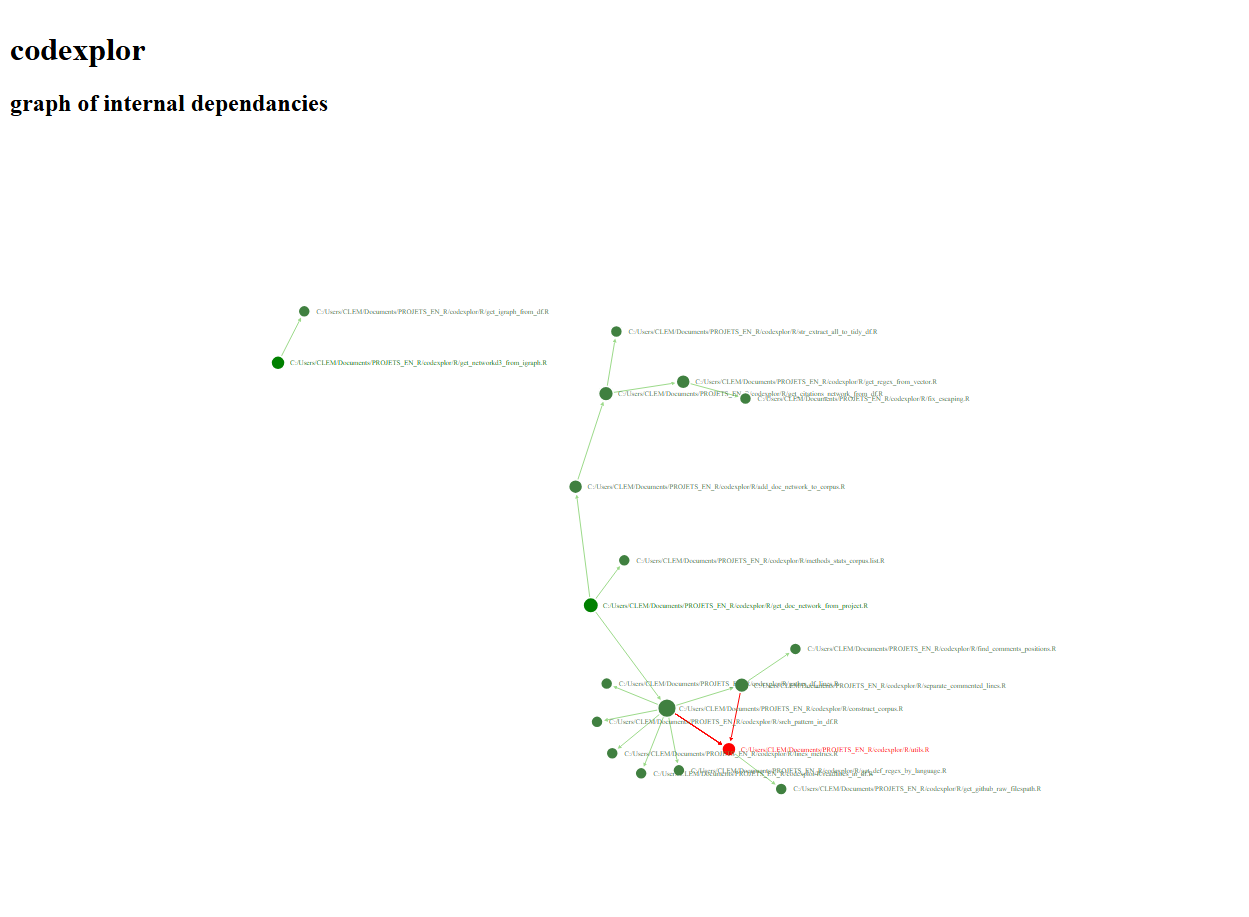
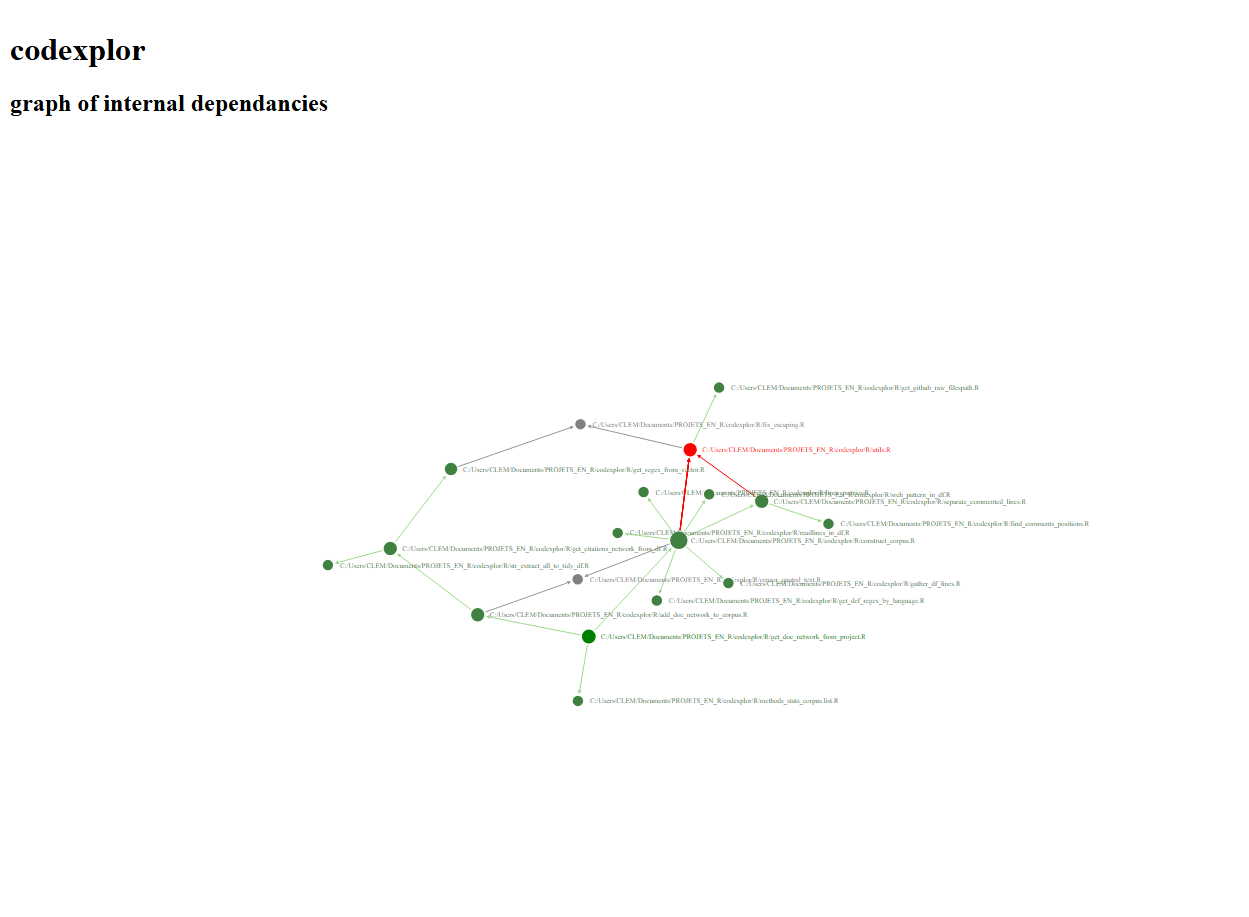
implement proper quoted text mecanizm & cleaning path method

Changed region(s): [[0.2498, 0.3969, 0.8743, 0.8855], [0.2186, 0.3359, 0.4371, 0.3969], [0.4996, 0.3359, 0.6869, 0.3664]]

diff --git a/man/figures/network_codexplor_fn.html b/man/figures/network_codexplor_fn.html
@@ -1231,11 +1231,11 @@ return function(){for(var n=0,e=0;e<t;++e)n+=Math.random();return n}},um=functio
 <div id="htmlwidget_container">
   <h1>codexplor</h1>
   <h2>graph of internal dependancies</h2>
-  <div class="forceNetwork html-widget html-fill-item" id="htmlwidget-4d145afddae71abe1782" style="width:960px;height:500px;"></div>
+  <div class="forceNetwork html-widget html-fill-item" id="htmlwidget-ac90f4d7289b88ae1a1c" style="width:960px;height:500px;"></div>
   <div style="position:floating; top:10px; left:10px; background:white; padding:10px; border:0px;">
   <strong>Colors (indegree)</strong><br></div>
 </div>
-<script type="application/json" data-for="htmlwidget-4d145afddae71abe1782">{"x":{"links":{"source":[0,0,2,3,1,4,1,5,6,7,1,0,1,1,1,7,1,1,2,1,1,1],"target":[4,1,10,11,12,7,13,14,15,3,9,8,16,2,17,18,5,5,5,5,5,5],"colour":["#9CDA8A","#9CDA8A","#9CDA8A","#9CDA8A","#9CDA8A","#9CDA8A","#9CDA8A","#9CDA8A","#9CDA8A","#9CDA8A","#9CDA8A","#9CDA8A","#9CDA8A","#9CDA8A","#9CDA8A","#9CDA8A","#FF0000","#FF0000","#FF0000","#FF0000","#FF0000","#FF0000"]},"nodes":{"name":["C:/Users/CLEM/Documents/PROJETS_EN_R/codexplor/R/get_doc_network_from_project.R","C:/Users/CLEM/Documents/PROJETS_EN_R/codexplor/R/construct_corpus.R","C:/Users/CLEM/Documents/PROJETS_EN_R/codexplor/R/separate_commented_lines.R","C:/Users/CLEM/Documents/PROJETS_EN_R/codexplor/R/get_regex_from_vector.R","C:/Users/CLEM/Documents/PROJETS_EN_R/codexplor/R/add_doc_network_to_corpus.R","C:/Users/CLEM/Documents/PROJETS_EN_R/codexplor/R/utils.R","C:/Users/CLEM/Documents/PROJETS_EN_R/codexplor/R/get_networkd3_from_igraph.R","C:/Users/CLEM/Documents/PROJETS_EN_R/codexplor/R/get_citations_network_from_df.R","C:/Users/CLEM/Documents/PROJETS_EN_R/codexplor/R/methods_stats_corpus.list.R","C:/Users/CLEM/Documents/PROJETS_EN_R/codexplor/R/lines_metrics.R","C:/Users/CLEM/Documents/PROJETS_EN_R/codexplor/R/find_comments_positions.R","C:/Users/CLEM/Documents/PROJETS_EN_R/codexplor/R/fix_escaping.R","C:/Users/CLEM/Documents/PROJETS_EN_R/codexplor/R/gather_df_lines.R","C:/Users/CLEM/Documents/PROJETS_EN_R/codexplor/R/get_def_regex_by_language.R","C:/Users/CLEM/Documents/PROJETS_EN_R/codexplor/R/get_github_raw_filespath.R","C:/Users/CLEM/Documents/PROJETS_EN_R/codexplor/R/get_igraph_from_df.R","C:/Users/CLEM/Documents/PROJETS_EN_R/codexplor/R/readlines_in_df.R","C:/Users/CLEM/Documents/PROJETS_EN_R/codexplor/R/srch_pattern_in_df.R","C:/Users/CLEM/Documents/PROJETS_EN_R/codexplor/R/str_extract_all_to_tidy_df.R"],"group":[0,1,1,1,1,6,0,1,1,1,1,1,1,1,1,1,1,1,1],"nodesize":[3,11,2,1,1,1,1,2,0,0,0,0,0,0,0,0,0,0,0]},"options":{"NodeID":"name","Group":"indegree","colourScale":"d3.scaleLinear().domain([0, 2, 4, 6]).range([\"green\", \"grey\", \"black\", \"red\"]).clamp(true);","fontSize":7,"fontFamily":"serif","clickTextSize":17.5,"linkDistance":50,"linkWidth":"function(d) { return 1; }","charge":-200,"opacity":1,"zoom":true,"legend":false,"arrows":true,"nodesize":true,"radiusCalculation":" Math.sqrt(d.nodesize)+6","bounded":true,"opacityNoHover":0.9,"clickAction":null}},"evals":[],"jsHooks":[]}</script>
-<script type="application/htmlwidget-sizing" data-for="htmlwidget-4d145afddae71abe1782">{"viewer":{"width":450,"height":350,"padding":10,"fill":true},"browser":{"width":960,"height":500,"padding":10,"fill":true}}</script>
+<script type="application/json" data-for="htmlwidget-ac90f4d7289b88ae1a1c">{"x":{"links":{"source":[0,1,2,0,3,4,5,2,1,2,5,6,7,2,0,2,2,2,7,2,2,2,2,3,2],"target":[1,9,9,2,11,12,12,13,7,14,15,16,4,10,8,17,3,18,19,5,5,5,5,5,5],"colour":["#9CDA8A","#959595","#959595","#9CDA8A","#9CDA8A","#959595","#959595","#9CDA8A","#9CDA8A","#9CDA8A","#9CDA8A","#9CDA8A","#9CDA8A","#9CDA8A","#9CDA8A","#9CDA8A","#9CDA8A","#9CDA8A","#9CDA8A","#FF0000","#FF0000","#FF0000","#FF0000","#FF0000","#FF0000"]},"nodes":{"name":["C:/Users/CLEM/Documents/PROJETS_EN_R/codexplor/R/get_doc_network_from_project.R","C:/Users/CLEM/Documents/PROJETS_EN_R/codexplor/R/add_doc_network_to_corpus.R","C:/Users/CLEM/Documents/PROJETS_EN_R/codexplor/R/construct_corpus.R","C:/Users/CLEM/Documents/PROJETS_EN_R/codexplor/R/separate_commented_lines.R","C:/Users/CLEM/Documents/PROJETS_EN_R/codexplor/R/get_regex_from_vector.R","C:/Users/CLEM/Documents/PROJETS_EN_R/codexplor/R/utils.R","C:/Users/CLEM/Documents/PROJETS_EN_R/codexplor/R/get_networkd3_from_igraph.R","C:/Users/CLEM/Documents/PROJETS_EN_R/codexplor/R/get_citations_network_from_df.R","C:/Users/CLEM/Documents/PROJETS_EN_R/codexplor/R/methods_stats_corpus.list.R","C:/Users/CLEM/Documents/PROJETS_EN_R/codexplor/R/censor_quoted_text.R","C:/Users/CLEM/Documents/PROJETS_EN_R/codexplor/R/lines_metrics.R","C:/Users/CLEM/Documents/PROJETS_EN_R/codexplor/R/find_comments_positions.R","C:/Users/CLEM/Documents/PROJETS_EN_R/codexplor/R/fix_escaping.R","C:/Users/CLEM/Documents/PROJETS_EN_R/codexplor/R/gather_df_lines.R","C:/Users/CLEM/Documents/PROJETS_EN_R/codexplor/R/get_def_regex_by_language.R","C:/Users/CLEM/Documents/PROJETS_EN_R/codexplor/R/get_github_raw_filespath.R","C:/Users/CLEM/Documents/PROJETS_EN_R/codexplor/R/get_igraph_from_df.R","C:/Users/CLEM/Documents/PROJETS_EN_R/codexplor/R/readlines_in_df.R","C:/Users/CLEM/Documents/PROJETS_EN_R/codexplor/R/srch_pattern_in_df.R","C:/Users/CLEM/Documents/PROJETS_EN_R/codexplor/R/str_extract_all_to_tidy_df.R"],"group":[0,1,1,1,1,6,0,1,1,2,1,1,2,1,1,1,1,1,1,1],"nodesize":[3,2,12,2,1,2,1,2,0,0,0,0,0,0,0,0,0,0,0,0]},"options":{"NodeID":"name","Group":"indegree","colourScale":"d3.scaleLinear().domain([0, 2, 4, 6]).range([\"green\", \"grey\", \"black\", \"red\"]).clamp(true);","fontSize":7,"fontFamily":"serif","clickTextSize":17.5,"linkDistance":50,"linkWidth":"function(d) { return 1; }","charge":-200,"opacity":1,"zoom":true,"legend":false,"arrows":true,"nodesize":true,"radiusCalculation":" Math.sqrt(d.nodesize)+6","bounded":true,"opacityNoHover":0.9,"clickAction":null}},"evals":[],"jsHooks":[]}</script>
+<script type="application/htmlwidget-sizing" data-for="htmlwidget-ac90f4d7289b88ae1a1c">{"viewer":{"width":450,"height":350,"padding":10,"fill":true},"browser":{"width":960,"height":500,"padding":10,"fill":true}}</script>
 </body>
 </html>

diff --git a/README.md b/README.md
@@ -46,8 +46,6 @@ library(codexplor)
 
  # 1) Construct a corpus and a Citations network
   corpus <- get_doc_network_from_project(folders = getwd(), languages = "R" )
-#> 
-#> Content is fixed by adding 2 closing separator(s) !
    # return a corpus.list object with 4 data.frames :
   # => 2 corpus.lines
   # => 1 corpus.nodelist 
